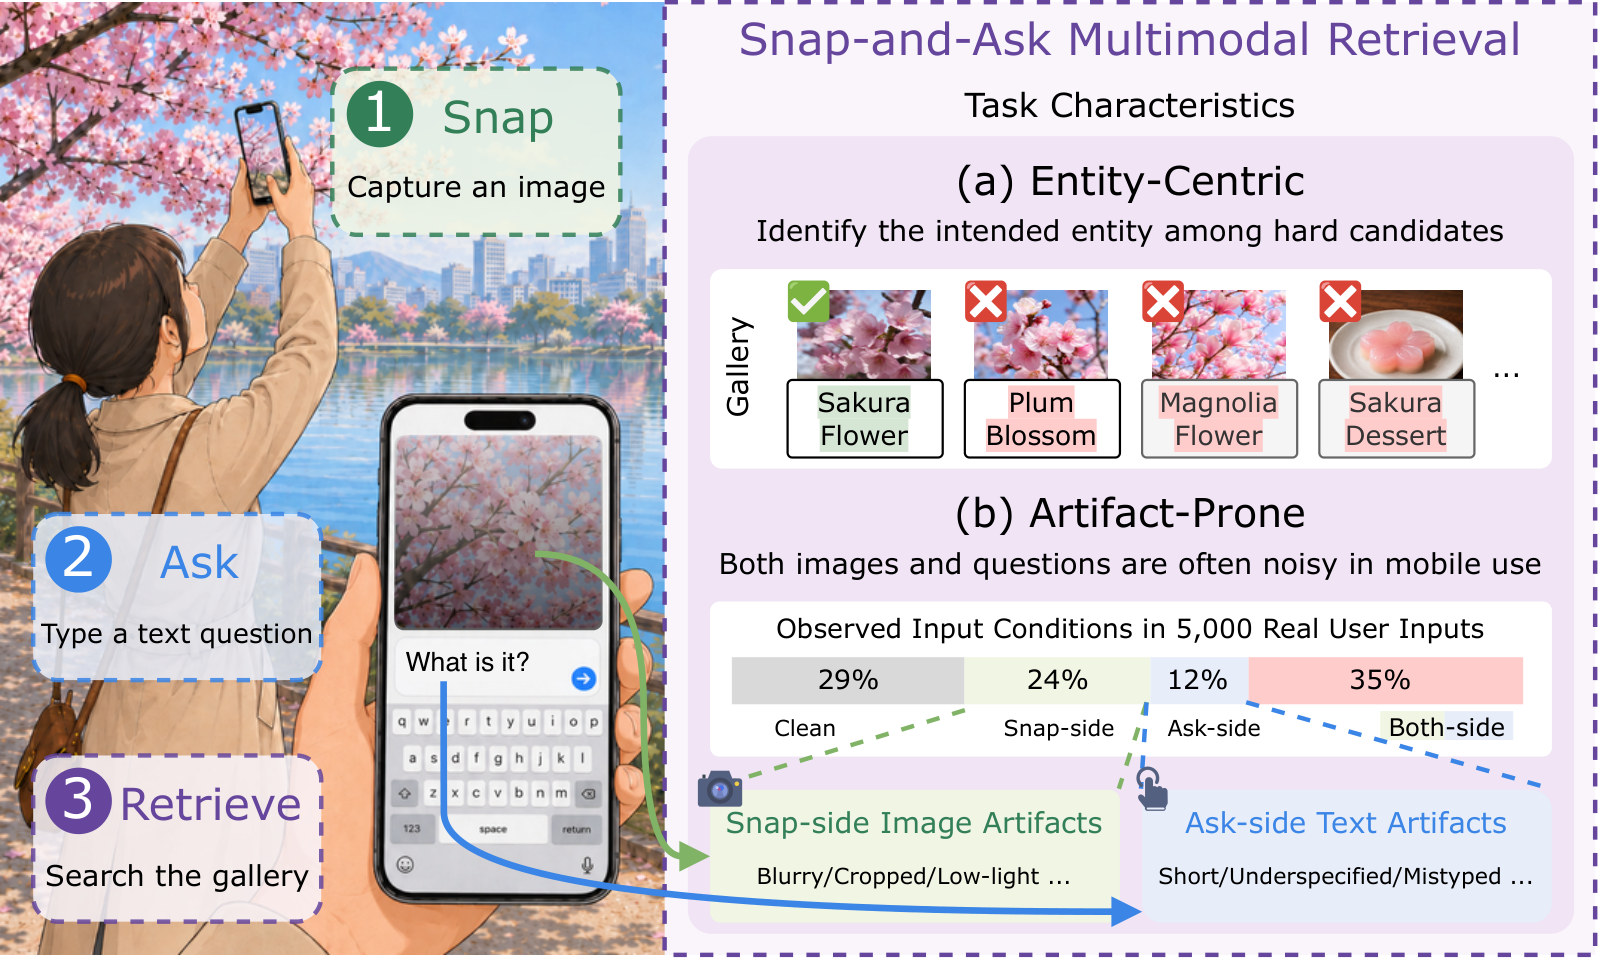
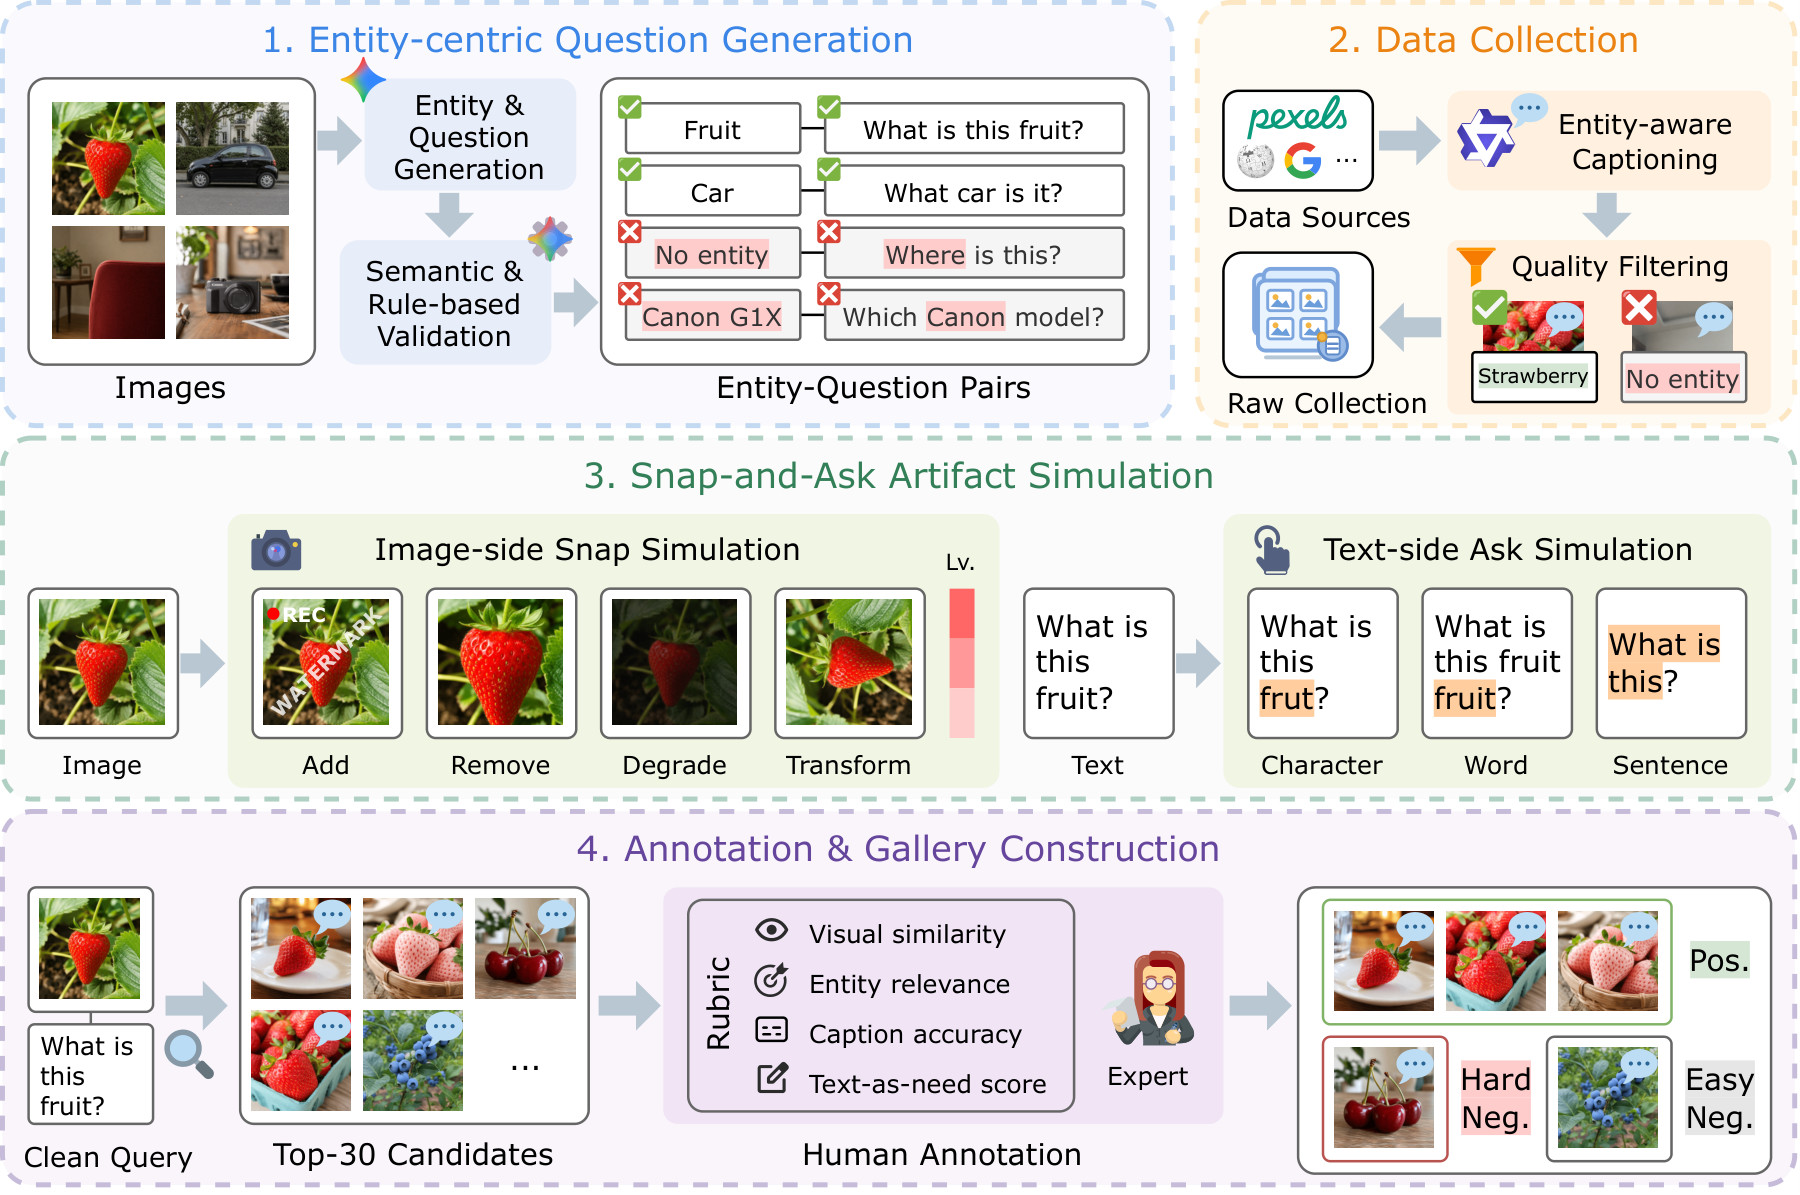
Use the SnapBench pipeline figure as the teaser and set the release date to August 20.

diff --git a/README.md b/README.md
@@ -14,7 +14,7 @@
   <img src="assets/teaser.jpg" alt="SnapBench snap-and-ask retrieval overview" width="100%">
 </p>
 <p align="center">
-  <em>A user snaps a photo and asks a short question. SnapBench keeps the same target, gallery, and labels across clean and corrupted inputs.</em>
+  <em>SnapBench construction pipeline: entity-centric questions, gallery collection, paired image/text artifacts, and human annotation.</em>
 </p>
 
 SnapBench is a **paired** benchmark for mobile **snap-and-ask** retrieval: a user takes a photo and asks a short English question. Each query is an image–text pair; the gallery is a shared set of image–caption items. Clean and corrupted variants keep the same target, gallery, and labels, so a score change can be attributed to the input artifact rather than to a new test set.
@@ -24,7 +24,7 @@ We also release **MOOR** (Modality-anchored, Outlier-aware, Optimal Reweighting)
 ## News
 
 - **2026-09-03**: Preprint is on arXiv: [2608.29607](https://arxiv.org/abs/2608.29607). Dataset on Hugging Face: [yefd/SnapBench](https://huggingface.co/datasets/yefd/SnapBench).
-- **2026-08-30**: Official repository released. SnapBench is accepted to **Findings of EMNLP 2026**. Dataset: [yefd/SnapBench](https://huggingface.co/datasets/yefd/SnapBench).
+- **2026-08-20**: Official repository released. SnapBench is accepted to **Findings of EMNLP 2026**. Dataset: [yefd/SnapBench](https://huggingface.co/datasets/yefd/SnapBench).
 
 ## Overview
 
